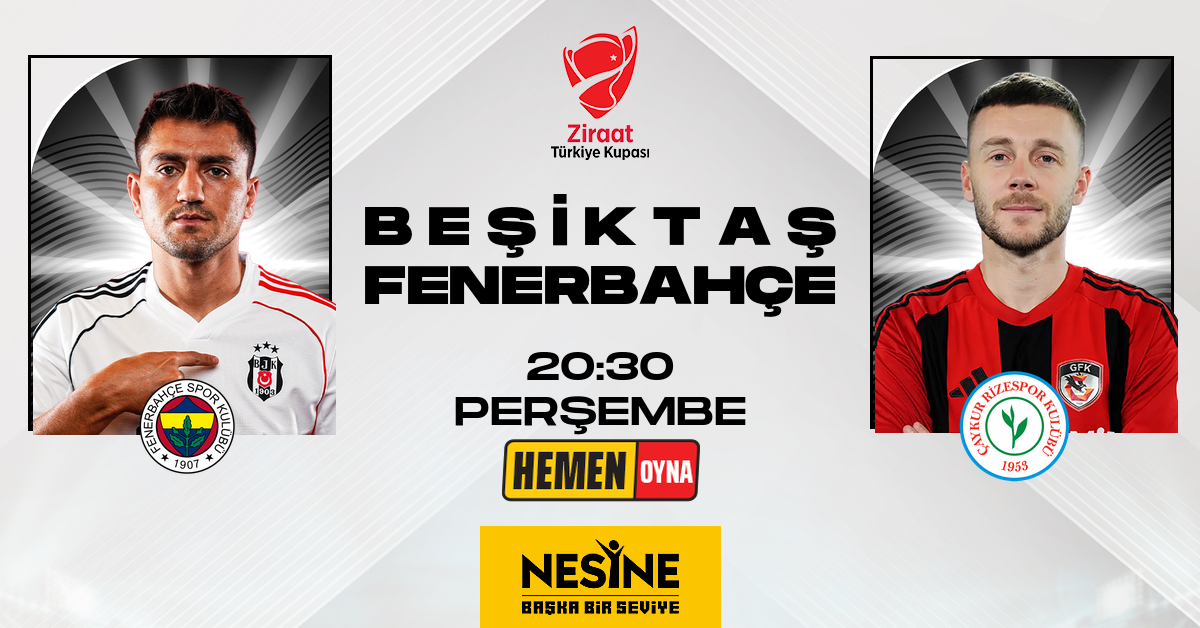
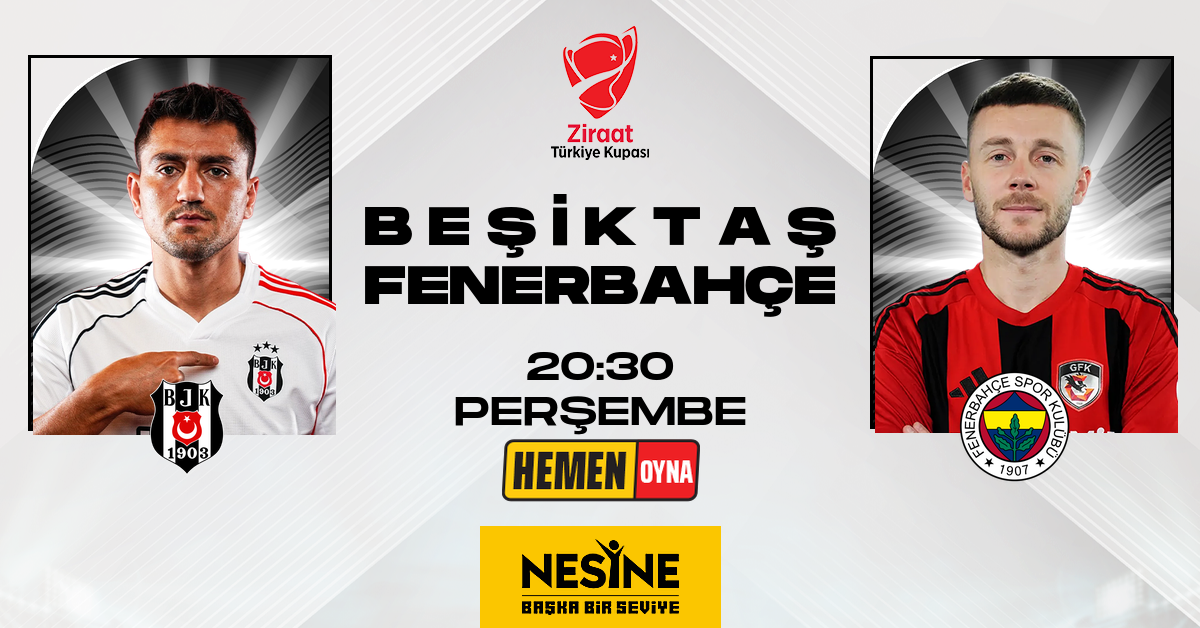
proof of work tanıtıldı

Changed region(s): [[0.8017, 0.5748, 0.8942, 0.7866], [0.0925, 0.6051, 0.2158, 0.7564]]

diff --git a/frontend/index.html b/frontend/index.html
@@ -221,7 +221,12 @@
                                 <option value="GALATASARAY">Galatasaray</option>
                                 <option value="FENERBAHÇE">Fenerbahçe</option>
                                 <option value="TRABZONSPOR">Trabzonspor</option>
+                                <option value="BAŞAKŞEHİR">Başakşehir</option>
+                                <option value="SAMSUNSPOR">Samsunspor</option>
+                                <option value="GAZİANTEP FK">Gaziantep FK</option>
                                 <option value="RİZESPOR">Rizespor</option>
+                                <option value="ANTALYASPOR">Antalyaspor</option>
+                                <option value="EYÜPSPOR">Eyüpspor</option>
                             </select>
                             <span class="font-black text-gray-400 text-sm">VS</span>
                             <select id="team_2" name="team_2"
@@ -230,7 +235,12 @@
                                 <option value="BEŞİKTAŞ">Beşiktaş</option>
                                 <option value="FENERBAHÇE" selected>Fenerbahçe</option>
                                 <option value="TRABZONSPOR">Trabzonspor</option>
+                                <option value="BAŞAKŞEHİR">Başakşehir</option>
                                 <option value="SAMSUNSPOR">Samsunspor</option>
+                                <option value="GAZİANTEP FK">Gaziantep FK</option>
+                                <option value="RİZESPOR">Rizespor</option>
+                                <option value="ANTALYASPOR">Antalyaspor</option>
+                                <option value="EYÜPSPOR">Eyüpspor</option>
                             </select>
                         </div>
                     </div>
@@ -253,9 +263,11 @@
                             <select id="player_1_id" name="player_1_id"
                                 class="bg-gray-50 border border-gray-200 text-gray-900 text-sm rounded-xl focus:ring-nesine-yellow focus:border-nesine-yellow block w-full p-3 shadow-sm font-semibold transition">
                                 <option value="1">Player 1</option>
-                                <option value="4" selected>Player 4</option>
-                                <option value="3">Player 3</option>
                                 <option value="2">Player 2</option>
+                                <option value="3">Player 3</option>
+                                <option value="4" selected>Player 4</option>
+                                <option value="5">Player 5</option>
+                                <option value="6">Player 6</option>
                             </select>
                         </div>
                         <div>
@@ -264,9 +276,11 @@
                                 2 (R)</label>
                             <select id="player_2_id" name="player_2_id"
                                 class="bg-gray-50 border border-gray-200 text-gray-900 text-sm rounded-xl focus:ring-nesine-yellow focus:border-nesine-yellow block w-full p-3 shadow-sm font-semibold transition">
-                                <option value="2" selected>Player 2</option>
-                                <option value="5">Player 5</option>
                                 <option value="1">Player 1</option>
+                                <option value="2" selected>Player 2</option>
+                                <option value="3">Player 3</option>
+                                <option value="4">Player 4</option>
+                                <option value="5">Player 5</option>
                                 <option value="6">Player 6</option>
                             </select>
                         </div>
@@ -400,13 +414,13 @@
                                     class="bg-blue-100 text-blue-700 text-[10px] font-black px-2 py-0.5 rounded border border-blue-200 uppercase tracking-tighter shadow-sm">1200x628</span>
                                 <div class="flex items-center gap-1">
                                     <select id="mode_1200x628" onchange="toggleModelSelector('1200x628')"
-                                        class="bg-gray-50 border-none text-[9px] font-bold text-gray-500 rounded-lg px-2 py-1 focus:ring-0 cursor-pointer hover:bg-gray-100 transition">
+                                        class="bg-gray-100/50 border border-none text-xs font-bold text-gray-600 rounded-lg px-2 py-2 focus:ring-0 cursor-pointer hover:bg-gray-100 transition">
                                         <option value="standard">Standard (Default)</option>
                                         <option value="layout">Layout Only (Hybrid)</option>
                                         <option value="creative">Creative (Imagen)</option>
                                     </select>
                                     <select id="model_1200x628"
-                                        class="hidden bg-gray-100/50 border-none text-[8px] font-black text-gray-400 rounded-lg px-2 py-1 focus:ring-0 cursor-pointer hover:bg-gray-200 transition uppercase tracking-tighter">
+                                        class="hidden bg-nesine-yellow/10 border border-none text-xs font-black text-gray-600 rounded-lg px-2 py-2 focus:ring-0 cursor-pointer hover:bg-nesine-yellow/20 transition uppercase tracking-tighter">
                                         <option value="gemini-3-pro-image-preview">Nano Banana Pro</option>
                                         <option value="imagen-4.0-generate-001">Imagen 4.0 Ultra</option>
                                     </select>
@@ -489,13 +503,13 @@
                                     class="bg-green-100 text-green-700 text-[10px] font-black px-2 py-0.5 rounded border border-green-200 uppercase tracking-tighter">120x600</span>
                                 <div class="flex items-center gap-1">
                                     <select id="mode_120x600" onchange="toggleModelSelector('120x600')"
-                                        class="bg-gray-50 border-none text-[9px] font-bold text-gray-500 rounded-lg px-2 py-1 focus:ring-0 cursor-pointer hover:bg-gray-100 transition">
+                                        class="bg-gray-100/50 border border-none text-xs font-bold text-gray-600 rounded-lg px-2 py-2 focus:ring-0 cursor-pointer hover:bg-gray-100 transition">
                                         <option value="standard">Standard (Default)</option>
                                         <option value="layout">Layout Only (Hybrid)</option>
                                         <option value="creative">Creative (Imagen)</option>
                                     </select>
                                     <select id="model_120x600"
-                                        class="hidden bg-gray-100/50 border-none text-[8px] font-black text-gray-400 rounded-lg px-2 py-1 focus:ring-0 cursor-pointer hover:bg-gray-200 transition uppercase tracking-tighter">
+                                        class="hidden bg-nesine-yellow/10 border border-none text-xs font-black text-gray-700 rounded-lg px-2 py-2 focus:ring-0 cursor-pointer hover:bg-nesine-yellow/20 transition uppercase tracking-tighter">
                                         <option value="gemini-3-pro-image-preview">Nano Banana Pro</option>
                                         <option value="imagen-4.0-generate-001">Imagen 4.0 Ultra</option>
                                     </select>
@@ -578,13 +592,13 @@
                                     class="bg-purple-100 text-purple-700 text-[10px] font-black px-2 py-0.5 rounded border border-purple-200 uppercase tracking-tighter">320x100</span>
                                 <div class="flex items-center gap-1">
                                     <select id="mode_320x100" onchange="toggleModelSelector('320x100')"
-                                        class="bg-gray-50 border-none text-[9px] font-bold text-gray-500 rounded-lg px-2 py-1 focus:ring-0 cursor-pointer hover:bg-gray-100 transition">
+                                        class="bg-gray-100/50 border border-none text-xs font-bold text-gray-600 rounded-lg px-2 py-2 focus:ring-0 cursor-pointer hover:bg-gray-100 transition">
                                         <option value="standard">Standard (Default)</option>
                                         <option value="layout">Layout Only (Hybrid)</option>
                                         <option value="creative">Creative (Imagen)</option>
                                     </select>
                                     <select id="model_320x100"
-                                        class="hidden bg-gray-100/50 border-none text-[8px] font-black text-gray-400 rounded-lg px-2 py-1 focus:ring-0 cursor-pointer hover:bg-gray-200 transition uppercase tracking-tighter">
+                                        class="hidden bg-nesine-yellow/10 border border-none text-xs font-black text-gray-700 rounded-lg px-2 py-2 focus:ring-0 cursor-pointer hover:bg-nesine-yellow/20 transition uppercase tracking-tighter">
                                         <option value="gemini-3-pro-image-preview">Nano Banana Pro</option>
                                         <option value="imagen-4.0-generate-001">Imagen 4.0 Ultra</option>
                                     </select>
@@ -661,13 +675,13 @@
                                     class="bg-pink-100 text-pink-700 text-[10px] font-black px-2 py-0.5 rounded border border-pink-200 uppercase tracking-tighter">300x50</span>
                                 <div class="flex items-center gap-1">
                                     <select id="mode_300x50" onchange="toggleModelSelector('300x50')"
-                                        class="bg-gray-50 border-none text-[9px] font-bold text-gray-500 rounded-lg px-2 py-1 focus:ring-0 cursor-pointer hover:bg-gray-100 transition">
+                                        class="bg-gray-100/50 border border-none text-xs font-bold text-gray-600 rounded-lg px-2 py-2 focus:ring-0 cursor-pointer hover:bg-gray-100 transition">
                                         <option value="standard">Standard (Default)</option>
                                         <option value="layout">Layout Only (Hybrid)</option>
                                         <option value="creative">Creative (Imagen)</option>
                                     </select>
                                     <select id="model_300x50"
-                                        class="hidden bg-gray-100/50 border-none text-[8px] font-black text-gray-400 rounded-lg px-2 py-1 focus:ring-0 cursor-pointer hover:bg-gray-200 transition uppercase tracking-tighter">
+                                        class="hidden bg-nesine-yellow/10 border border-none text-xs font-black text-gray-700 rounded-lg px-2 py-2 focus:ring-0 cursor-pointer hover:bg-nesine-yellow/20 transition uppercase tracking-tighter">
                                         <option value="gemini-3-pro-image-preview">Nano Banana Pro</option>
                                         <option value="imagen-4.0-generate-001">Imagen 4.0 Ultra</option>
                                     </select>
@@ -833,15 +847,18 @@
                     throw new Error(data.error || `${size} generation failed`);
                 }
 
-                // Update Image
+                // Update Image info for download logic
                 const urlObj = new URL(data.imageUrl, window.location.origin);
                 const realFilename = urlObj.pathname.split('/').pop();
                 targetImg.setAttribute('data-filename', realFilename);
 
                 // Force cache break with timestamp
-                targetImg.src = data.imageUrl + '?t=' + new Date().getTime();
+                const fullUrl = data.imageUrl + '?t=' + new Date().getTime();
+                
+                // Ensure visible before setting src (Firefox fix)
                 targetImg.classList.remove('hidden');
                 targetEmpty.classList.add('hidden');
+                targetImg.src = fullUrl;
 
                 addLog(`✓ ${size} Response Received. Successfully saved to ${realFilename}`, 'success');
                 if (data.info) addLog(`AI Output: ${data.info}`, 'info');

diff --git a/backend/app.py b/backend/app.py
@@ -54,14 +54,16 @@ async def generate_banner(
     try:
         # Logo haritalama (Basit versiyon)
         logo_map = {
-            "BEŞİKTAŞ": "1",
-            "GALATASARAY": "2",
-            "FENERBAHÇE": "3",
-            "TRABZONSPOR": "4",
-            "BAŞAKŞEHİR": "5",
+            "BEŞİKTAŞ": "4",
+            "GALATASARAY": "6",
+            "FENERBAHÇE": "1",
+            "TRABZONSPOR": "3",
+            "BAŞAKŞEHİR": "2",
             "SAMSUNSPOR": "6",
             "GAZİANTEP FK": "1",
-            "RİZESPOR": "4"
+            "RİZESPOR": "3",
+            "ANTALYASPOR": "5",
+            "EYÜPSPOR": "5"
         }
         
         l1_id = logo_map.get(team_1.upper(), "1")
